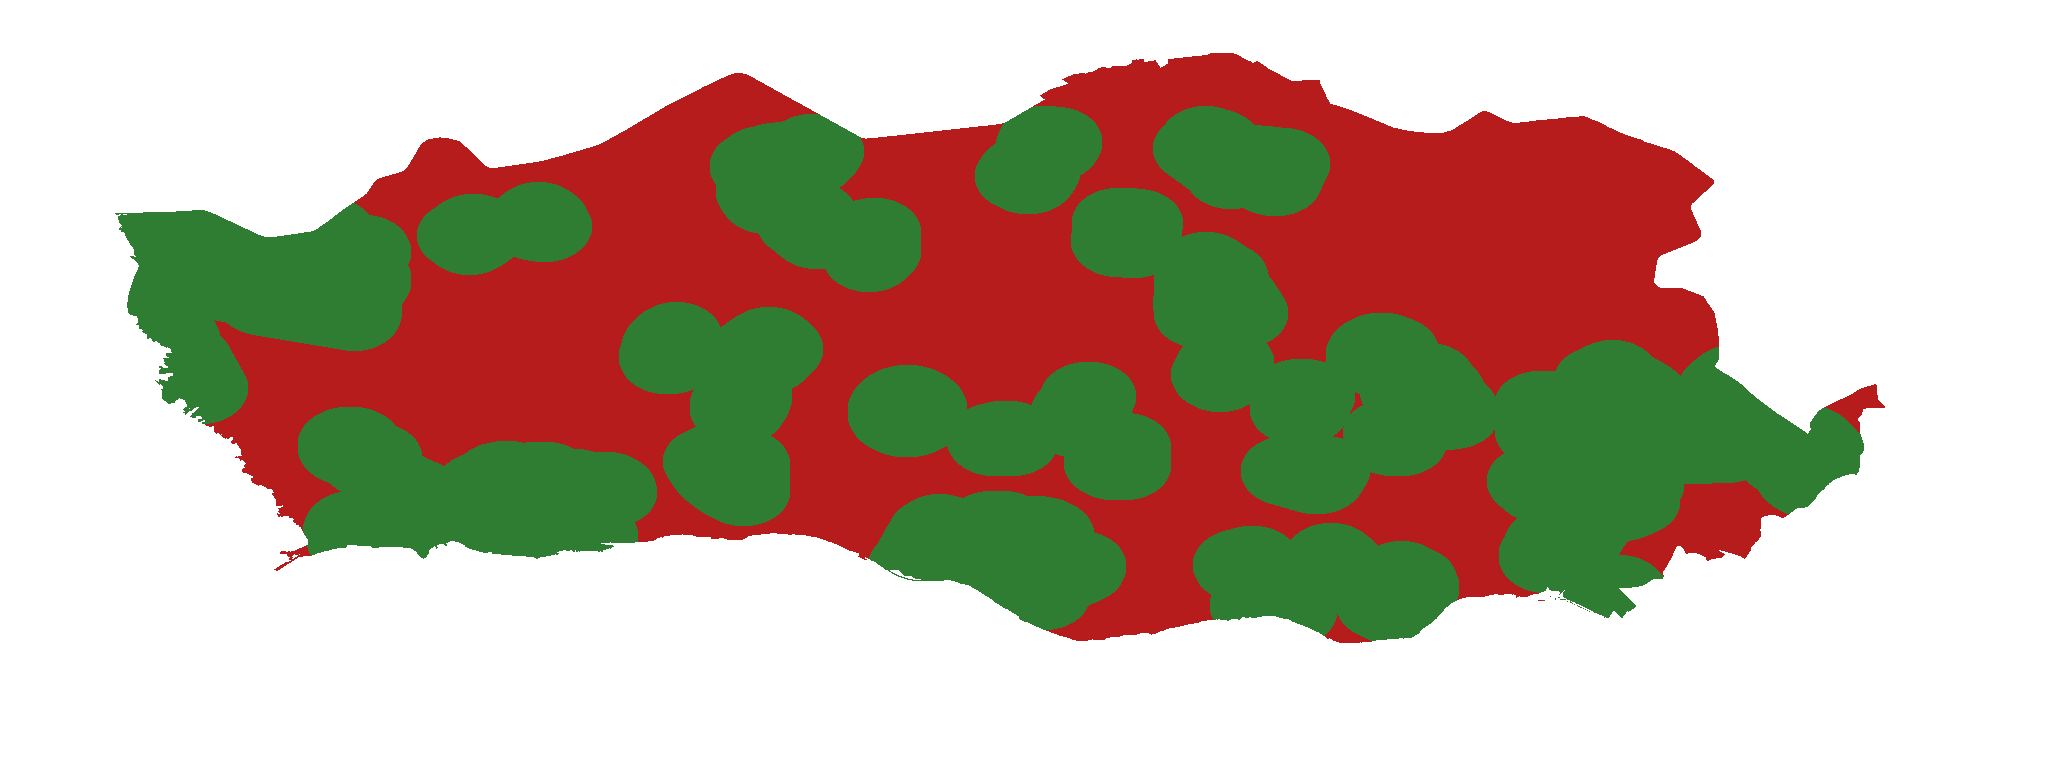
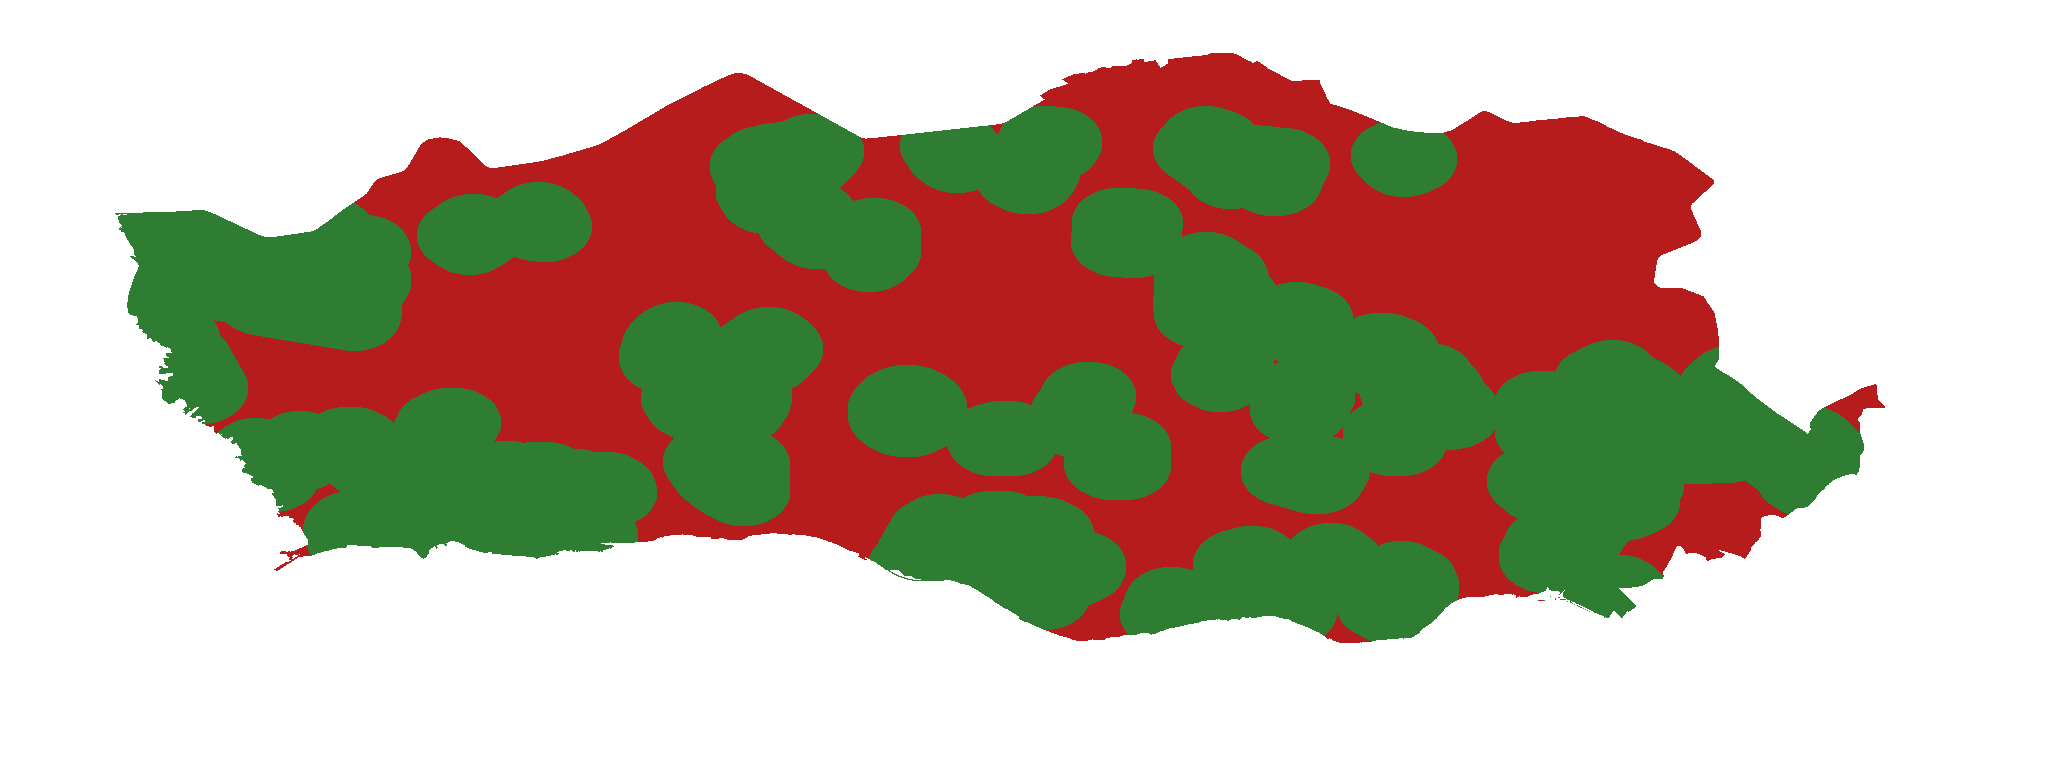
Baixar limiar de proximidade para 0,4 ha, actualizar CLAUDE.md
Proximidade 300m agora usa parques >=0,4 ha (61 de 79) em vez de 0,5 ha.
Cobertura sobe de 49,9% para 55,8%. Actualizar legendas, prints e artigo.
CLAUDE.md: documentar camadas de verde e pipelines de regeneracao.

diff --git a/acessibilidade/acessibilidade_verde.html b/acessibilidade/acessibilidade_verde.html
@@ -116,14 +116,14 @@
     <div style="display:flex;flex-direction:column;gap:2px;font-size:10px;">
       <div style="display:flex;align-items:center;gap:4px;">
         <span style="width:14px;height:12px;border-radius:2px;background:#2E7D32;display:inline-block;"></span>
-        <span style="color:#666;">&le;300m de parque &ge;0,5 ha (cumpre)</span>
+        <span style="color:#666;">&le;300m de parque &ge;0,4 ha (cumpre)</span>
       </div>
       <div style="display:flex;align-items:center;gap:4px;">
         <span style="width:14px;height:12px;border-radius:2px;background:#B71C1C;display:inline-block;"></span>
-        <span style="color:#666;">&gt;300m de parque &ge;0,5 ha (n&atilde;o cumpre)</span>
+        <span style="color:#666;">&gt;300m de parque &ge;0,4 ha (n&atilde;o cumpre)</span>
       </div>
     </div>
-    <div style="color:#aaa;font-size:9px;margin-top:4px;">OMS: &ge;0,5 ha de verde a &lt;300m de casa</div>
+    <div style="color:#aaa;font-size:9px;margin-top:4px;">OMS: &ge;0,4 ha de verde a &lt;300m de casa</div>
   </div>
 
   <div class="section">Camadas</div>
@@ -28307,7 +28307,7 @@ var accLayer = {
 var proxLayer = {
   id: "proximidade_300m",
   label: "Proximidade 300m",
[2 lines of base64/hex data omitted]
   opacity: 0.7,
   show: false
 };

diff --git a/acessibilidade/acessibilidade_verde.py b/acessibilidade/acessibilidade_verde.py
@@ -531,17 +531,17 @@ else:
     print("  baixa_densidade.png já existe, a saltar...")
 
 # ===== Phase 4c: Proximidade 300m (Konijnendijk 3-30-300) =====
-# Para cada pixel habitado: existe um parque ≥0,5 ha a ≤300 m?
+# Para cada pixel habitado: existe um parque ≥0,4 ha a ≤300 m?
 PROX_RADIUS_M = 300
-PARK_MIN_AREA_M2 = 5_000  # 0.5 ha
+PARK_MIN_AREA_M2 = 4_000  # 0.4 ha
 prox_path = os.path.join(LAYERS_DIR, "proximidade_300m.png")
 if not os.path.exists(prox_path):
     print("\nA calcular proximidade 300m (Konijnendijk)...")
-    # Filtrar parques com área ≥0,5 ha
+    # Filtrar parques com área ≥0,4 ha
     parques_grandes = parques_gdf[
         parques_gdf.geometry.area * (M_PER_DEG_LAT * M_PER_DEG_LON) >= PARK_MIN_AREA_M2
     ]
-    print(f"  Parques >=0.5 ha: {len(parques_grandes)} de {len(parques_gdf)}")
+    print(f"  Parques >=0.4 ha: {len(parques_grandes)} de {len(parques_gdf)}")
     if len(parques_grandes) > 0:
         parques_grandes_union = parques_grandes.geometry.union_all()
         # Máscara binária dos parques grandes
@@ -572,10 +572,10 @@ if not os.path.exists(prox_path):
         pct_coberto = pop_coberto / total_pop_porto * 100
         pct_nao_coberto = pop_nao_coberto / total_pop_porto * 100
         print(
-            f"  A <=300m de parque >=0.5ha: {pop_coberto:.0f} hab ({pct_coberto:.1f}%)"
+            f"  A <=300m de parque >=0.4ha: {pop_coberto:.0f} hab ({pct_coberto:.1f}%)"
         )
         print(
-            f"  A >300m de parque >=0.5ha: {pop_nao_coberto:.0f} hab ({pct_nao_coberto:.1f}%)"
+            f"  A >300m de parque >=0.4ha: {pop_nao_coberto:.0f} hab ({pct_nao_coberto:.1f}%)"
         )
         # PNG: verde onde coberto, vermelho onde não coberto (só pixels habitados)
         prox_rgba = np.zeros((calc_h, calc_w, 4), dtype=np.uint8)
@@ -591,7 +591,7 @@ if not os.path.exists(prox_path):
         np.save(os.path.join(LAYERS_DIR, "reach_300.npy"), reach_300)
         print("  Arrays proximidade 300m guardados em cache (.npy)")
     else:
-        print("  AVISO: nenhum parque >=0.5 ha encontrado")
+        print("  AVISO: nenhum parque >=0.4 ha encontrado")
         prox_rgba = np.zeros((calc_h, calc_w, 4), dtype=np.uint8)
         Image.fromarray(prox_rgba).save(prox_path)
 else:
@@ -789,14 +789,14 @@ html = f'''<!DOCTYPE html>
     <div style="display:flex;flex-direction:column;gap:2px;font-size:10px;">
       <div style="display:flex;align-items:center;gap:4px;">
         <span style="width:14px;height:12px;border-radius:2px;background:#2E7D32;display:inline-block;"></span>
-        <span style="color:#666;">&le;300m de parque &ge;0,5 ha (cumpre)</span>
+        <span style="color:#666;">&le;300m de parque &ge;0,4 ha (cumpre)</span>
       </div>
       <div style="display:flex;align-items:center;gap:4px;">
         <span style="width:14px;height:12px;border-radius:2px;background:#B71C1C;display:inline-block;"></span>
-        <span style="color:#666;">&gt;300m de parque &ge;0,5 ha (n&atilde;o cumpre)</span>
+        <span style="color:#666;">&gt;300m de parque &ge;0,4 ha (n&atilde;o cumpre)</span>
       </div>
     </div>
-    <div style="color:#aaa;font-size:9px;margin-top:4px;">OMS: &ge;0,5 ha de verde a &lt;300m de casa</div>
+    <div style="color:#aaa;font-size:9px;margin-top:4px;">OMS: &ge;0,4 ha de verde a &lt;300m de casa</div>
   </div>
 
   <div class="section">Camadas</div>

diff --git a/_posts/2026-03-30-acessibilidade-verde-publico-porto.md b/_posts/2026-03-30-acessibilidade-verde-publico-porto.md
@@ -187,14 +187,14 @@ O inventário totaliza **79 parques e jardins** (~217 ha), inferior aos 448 ha d
 
 ### 4.4. Proximidade 300m: o critério de Konijnendijk
 
-A regra 3-30-300 (Konijnendijk, 2023) propõe que todos os residentes devem ter acesso a um espaço verde a ≤300 m de casa. Embora a formulação original refira parques de ≥1 ha, adoptamos aqui o limiar de ≥0,5 ha — alinhado com a recomendação da OMS (WHO, 2016) — por melhor reflectir a escala dos espaços verdes urbanos do Porto, onde muitos jardins e praças com funções recreativas relevantes ficam abaixo de 1 ha. Aplicando este critério aos parques do inventário com área ≥0,5 ha:
+A regra 3-30-300 (Konijnendijk, 2023) propõe que todos os residentes devem ter acesso a um espaço verde a ≤300 m de casa. Embora a formulação original refira parques de ≥1 ha, adoptamos aqui o limiar de ≥0,4 ha — por melhor reflectir a escala dos espaços verdes urbanos do Porto, onde muitos jardins e praças com funções recreativas relevantes ficam abaixo de 1 ha. Aplicando este critério aos 61 parques do inventário com área ≥0,4 ha:
 
-| Critério 300m (parques ≥0,5 ha) | População | % |
+| Critério 300m (parques ≥0,4 ha) | População | % |
 |---|---:|---:|
-| Cumpre (≤300 m) | 120 981 | 49,9% |
-| Não cumpre (>300 m) | 121 444 | 50,1% |
+| Cumpre (≤300 m) | 135 315 | 55,8% |
+| Não cumpre (>300 m) | 107 110 | 44,2% |
 
-**Cerca de metade da população do Porto** (50,1%) não tem acesso a um parque de dimensão significativa a uma distância pedonal curta. Este resultado complementa o 2SFCA: parte da população na faixa "insuficiente" (3–9 m²/hab) pode estar a mais de 300 m do parque mais próximo — a acessibilidade 2SFCA reflecte parques distantes que "chegam" ao raio de 500 m mas não ao de 300 m.
+**44,2% da população do Porto** — ~107 mil pessoas — não tem acesso a um parque de dimensão significativa a uma distância pedonal curta. Este resultado complementa o 2SFCA: parte da população na faixa "insuficiente" (3–9 m²/hab) pode estar a mais de 300 m do parque mais próximo — a acessibilidade 2SFCA reflecte parques distantes que "chegam" ao raio de 500 m mas não ao de 300 m.
 
 ### 4.5. Verde privado: o paradoxo de equidade
 
@@ -255,9 +255,9 @@ A estratégia municipal deveria priorizar o **eixo central e oriental** — onde
 
 ## 7. Conclusões
 
-**82,4% da população do Porto** vive com acessibilidade a verde público inferior a 9 m²/hab num raio de 500 m. **56,5%** encontra-se em défice crítico (<3 m²/hab), concentrado no centro e leste — as zonas mais densas e termicamente vulneráveis. Apenas 17,9% tem acesso adequado. Aplicando o critério de proximidade de Konijnendijk (2023), **50,9% da população** não tem um parque de ≥0,5 ha a ≤300 m de casa.
+**81,7% da população do Porto** vive com acessibilidade a verde público inferior a 9 m²/hab num raio de 500 m. **56,0%** encontra-se em défice crítico (<3 m²/hab), concentrado no centro e leste — as zonas mais densas e termicamente vulneráveis. Apenas 18,3% tem acesso adequado. Aplicando o critério de proximidade de Konijnendijk (2023), **44,2% da população** não tem um parque de ≥0,4 ha a ≤300 m de casa.
 
-Dos 448 ha classificados como verde público pelo PDM, apenas ~214 ha são efectivamente usufruíveis. A métrica agregada per capita é insuficiente para avaliar a equidade — e o Porto não é caso único: Lisboa, Barcelona e Paris partilham o mesmo padrão de défice estrutural em núcleos densos.
+Dos 448 ha classificados como verde público pelo PDM, apenas ~217 ha são efectivamente usufruíveis. A métrica agregada per capita é insuficiente para avaliar a equidade — e o Porto não é caso único: Lisboa, Barcelona e Paris partilham o mesmo padrão de défice estrutural em núcleos densos.
 
 ---
 

diff --git a/CLAUDE.md b/CLAUDE.md
@@ -52,19 +52,41 @@ GEE/
 - **Cada sub-projecto tem a sua pasta** — nunca espalhar ficheiros de dados pela raiz
 - **Links no `index.html`** devem apontar para o caminho correcto dentro da pasta (ex: `atropelamentos/dashboard_atropelamentos.html`)
 
+## Camadas de verde — definições e dependências
+
+O projecto usa **três camadas de verde mutuamente exclusivas**:
+
+1. **Parques e jardins** (`parques_porto.geojson`): espaços verdes de acesso público gratuito. Polígonos obtidos preferencialmente do PDM (fruição colectiva) ou OSM. Fonte autoritativa.
+2. **Verde pago ou não usufruível** (`verde_pago.png`): pixels que são (a) dentro de polígonos PDM das categorias verde de fruição colectiva, lúdico-produtiva, protecção e enquadramento, ou associada a equipamento — **excluindo** frente atlântica e ribeirinha; (b) verdes no Sentinel-2; (c) **fora** de qualquer parque/jardim.
+3. **Verde privado** (`interior_subsistente.png`): pixels verdes no Sentinel-2 que **não** são parques/jardins **nem** verde pago, **nem** estradas. Corresponde a logradouros, quarteirões e quintas privadas.
+
+**Hierarquia**: parques > verde pago > verde privado. Ao alterar parques, as outras camadas devem ser regeneradas.
+
 ## Acessibilidade — pipeline de regeneração
 
-O mapa de acessibilidade (`acessibilidade/`) usa PNGs em cache na pasta `acessibilidade/layers/`. Estes PNGs são gerados a partir dos dados de parques (`parques_porto.geojson`) e **não se actualizam automaticamente** quando os dados mudam.
+O mapa de acessibilidade (`acessibilidade/`) usa PNGs em cache na pasta `acessibilidade/layers/`.
 
 **Ao alterar parques (adicionar, remover, editar geometria):**
-1. Actualizar `criar_parques.py` (lista PARQUES) e/ou `parques_porto.geojson`
-2. **Apagar os PNGs em cache** que dependem dos parques antes de regenerar:
-   - `layers/verde_publico.png` (verde Sentinel-2 ∩ parques)
-   - `layers/verde_pago.png` (PDM \ parques)
-   - `layers/acessibilidade_2sfca.png` (resultado do cálculo)
+1. Editar `parques_porto.geojson` directamente (preferir polígonos PDM ou OSM)
+2. **Apagar os PNGs em cache** que dependem dos parques:
+   - `layers/verde_publico.png`, `layers/verde_pago.png`, `layers/acessibilidade_2sfca.png`
+   - `layers/proximidade_300m.png`, `layers/kernel_300.npy`, `layers/reach_300.npy`
 3. Correr `python acessibilidade_verde.py` — só regenera PNGs que não existam
+4. **Depois**: regenerar o verde privado (ver abaixo)
 
-Se não se apagarem os PNGs, o script salta a regeneração e usa dados antigos — os novos parques ficam **invisíveis no cálculo de acessibilidade** e na camada visual.
+## Verde privado — pipeline de regeneração
+
+O verde privado (`layers/interior_subsistente.png`) é calculado por `interiores_quarteiroes.py`:
+
+1. **Classificação Sentinel-2** — base: `acessibilidade/layers/verde_total.png` (todos os pixels verdes)
+2. **Subtrair parques e jardins** — camada `acessibilidade/parques_porto.geojson`
+3. **Subtrair verde pago** — camada `acessibilidade/layers/verde_pago.png`
+4. **Máscara de estradas** — OSM (buffer por tipo de via)
+5. **Vectorização e filtragem** — área mínima e forma
+
+**Para regenerar sem GEE**: apagar `layers/interior_subsistente.png` e `layers/interior_perdido.png`, depois correr `python interiores_quarteiroes.py`. A fase 1 re-descarrega do GEE (~30s); as fases 2-5 são locais.
+
+**Alternativa rápida (sem GEE)**: usar `acessibilidade/layers/verde_total.png` como base, aplicar as máscaras de parques + verde pago + estradas localmente.
 
 **Overpass API:**
 - Pode dar timeout com muitos elementos — o script divide em lotes e tenta servidores alternativos
